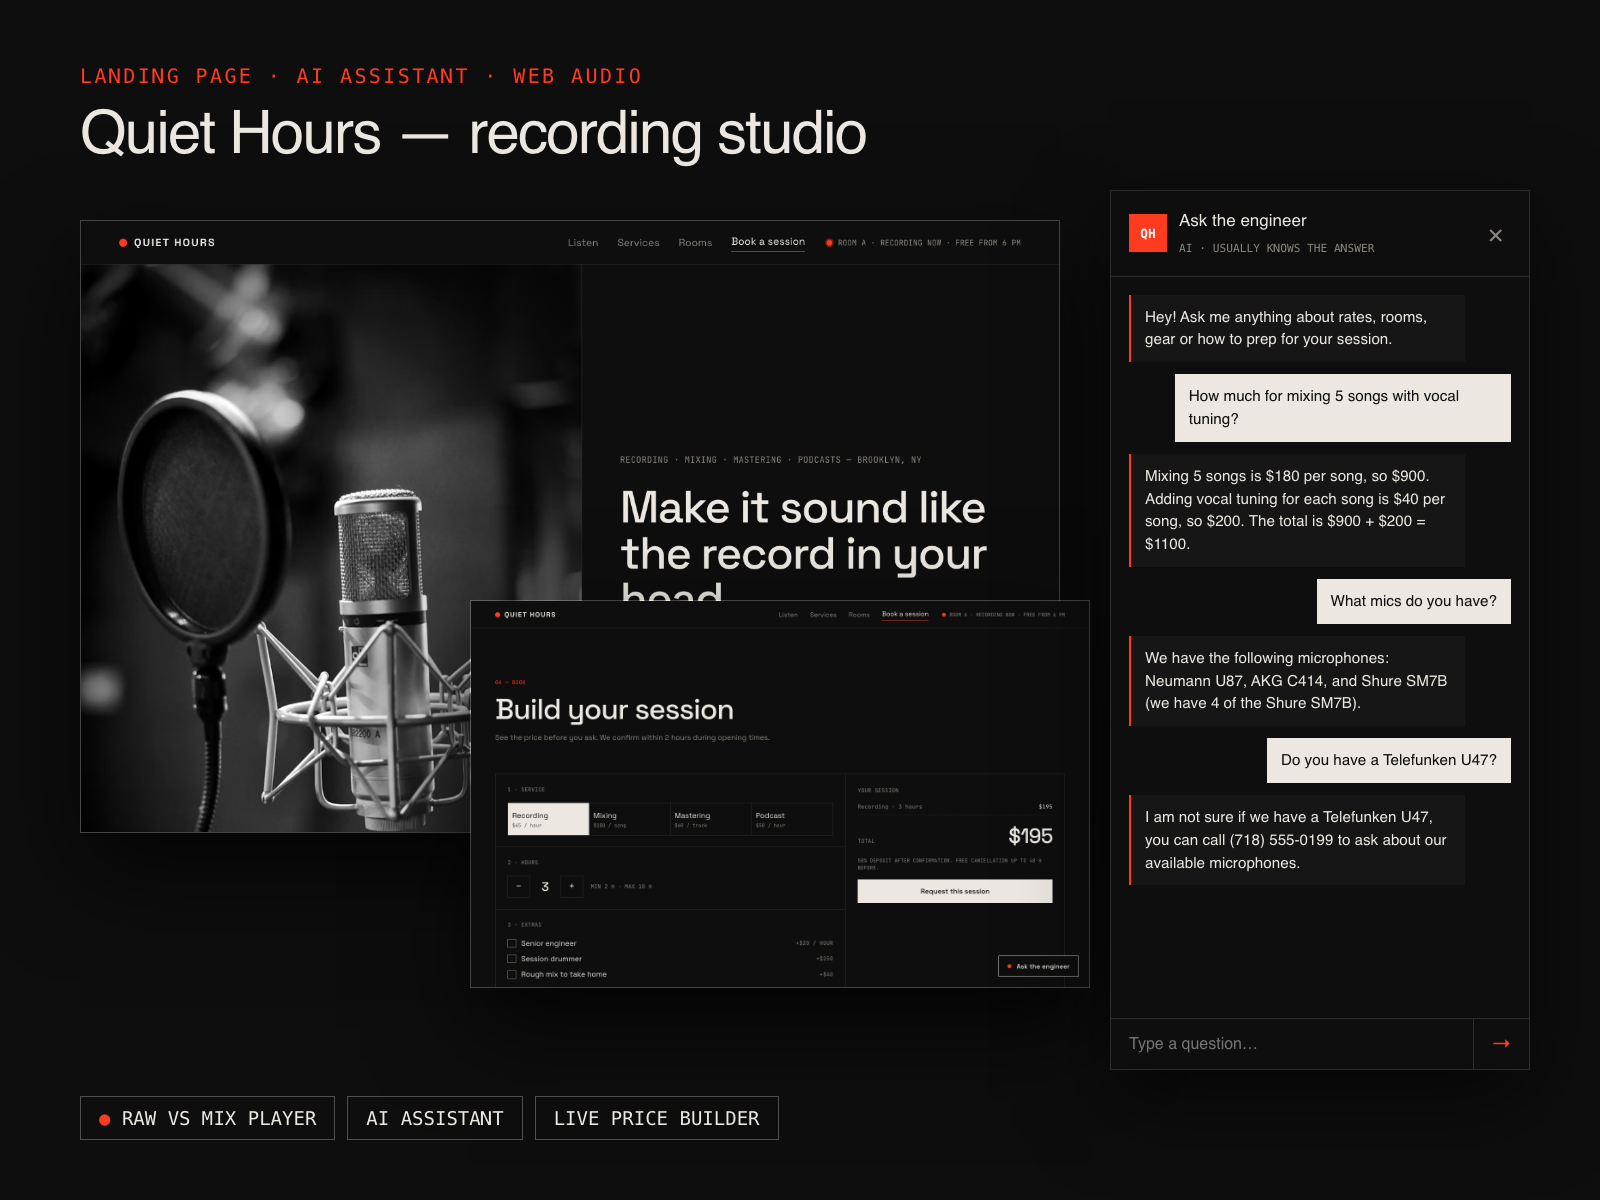
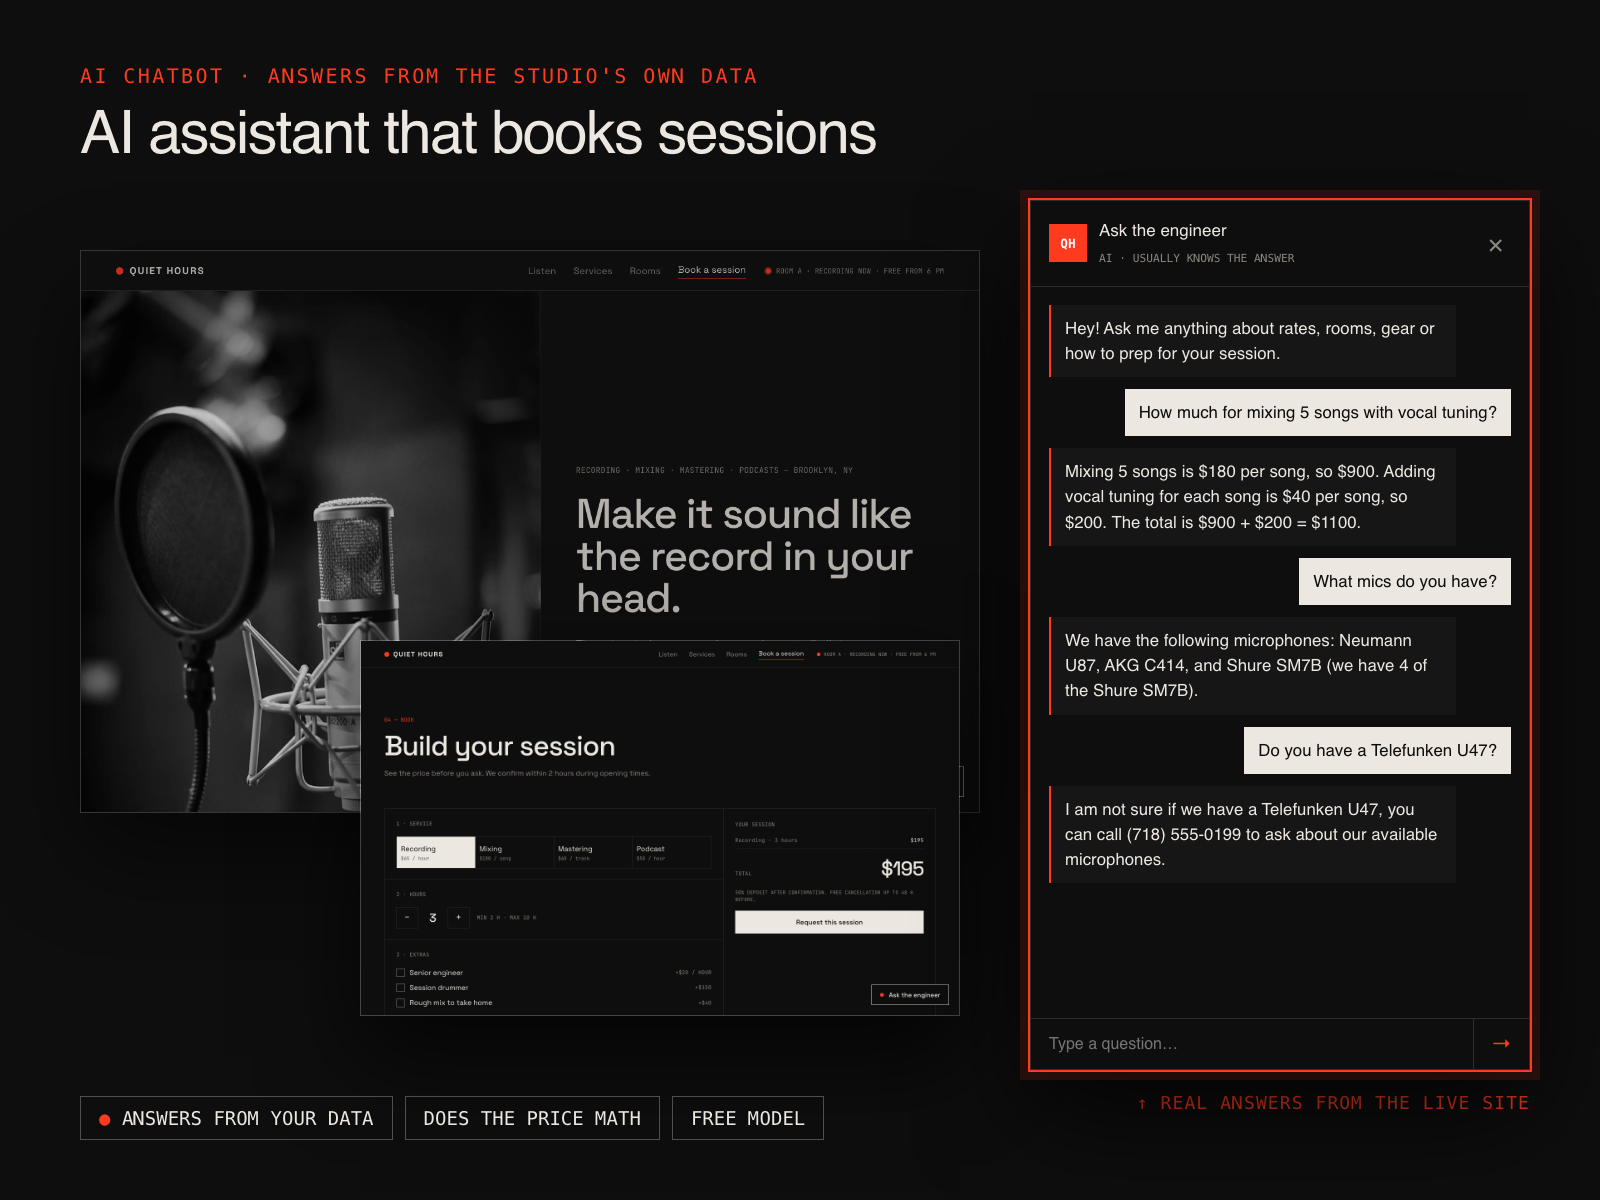
Put the AI assistant up front: hero button, teaser bubble, cover

diff --git a/chat.js b/chat.js
@@ -47,6 +47,28 @@
     }
   }
   launcher.addEventListener("click", () => open(panel.hidden));
+  // Let the page open the chat from its own buttons: <a data-open-chat>
+  window.openChat = () => open(true);
+  document.addEventListener("click", (e) => {
+    const trigger = e.target.closest("[data-open-chat]");
+    if (trigger) { e.preventDefault(); hideTeaser(); open(true); }
+  });
+
+  // Small teaser above the button a few seconds after load (once per visit).
+  const teaser = document.createElement("div");
+  teaser.className = "chat__teaser";
+  teaser.innerHTML = `<button class="chat__teaser-text" type="button">${cfg.teaser || "Questions? Ask me, I reply instantly."}</button><button class="chat__teaser-x" type="button" aria-label="Hide">×</button>`;
+  root.insertBefore(teaser, launcher);
+  function hideTeaser() {
+    teaser.classList.remove("is-on");
+    try { sessionStorage.setItem("chat.teaser", "1"); } catch { /* storage blocked */ }
+  }
+  teaser.querySelector(".chat__teaser-text").addEventListener("click", () => { hideTeaser(); open(true); });
+  teaser.querySelector(".chat__teaser-x").addEventListener("click", hideTeaser);
+  let seen = false;
+  try { seen = sessionStorage.getItem("chat.teaser") === "1"; } catch { /* ignore */ }
+  if (!seen) setTimeout(() => { if (panel.hidden) teaser.classList.add("is-on"); }, cfg.teaserDelay ?? 4000);
+  launcher.addEventListener("click", hideTeaser);
   $(".chat__close").addEventListener("click", () => open(false));
   document.addEventListener("keydown", (e) => { if (e.key === "Escape" && !panel.hidden) open(false); });
 

diff --git a/index.html b/index.html
@@ -51,6 +51,11 @@
           <a class="btn" href="#book">Book a session</a>
           <a class="btn btn--line" href="#listen">Hear the difference ↓</a>
         </div>
+        <a class="ai-cta" href="#" data-open-chat>
+          <span class="ai-cta__dot"></span>
+          <span><strong>Questions? Ask our AI engineer</strong><small class="mono">Rates, gear, session prep · answers in seconds, 24/7</small></span>
+          <span class="ai-cta__arrow">→</span>
+        </a>
         <dl class="facts mono">
           <div><dt>Rooms</dt><dd>3</dd></div>
           <div><dt>Sessions</dt><dd>1,200+</dd></div>
@@ -254,6 +259,7 @@
       subtitle: "AI · usually knows the answer",
       avatar: "QH",
       greeting: "Hey! Ask me anything about rates, rooms, gear or how to prep for your session.",
+      teaser: "Not sure what you need? Ask me about rates, gear or prep.",
       suggestions: ["How much for mixing 5 songs?", "What mics do you have?", "How do I prepare for recording vocals?", "Can we record a podcast with 3 people?"],
       fallback: "Can't answer right now. Call (718) 555-0199 or use the session builder.",
       cta: { text: "Build your session →", href: "#book", match: "book|session|builder" }

diff --git a/chat.css b/chat.css
@@ -43,6 +43,19 @@
 .chat__send:hover { background: var(--rec); color: #fff; }
 .chat__note { font: .66rem var(--mono); text-transform: uppercase; color: var(--dim); padding: 8px 18px 12px; }
 
+/* Teaser bubble */
+.chat__teaser {
+  position: absolute; right: 0; bottom: calc(100% + 12px); width: max-content; max-width: 280px;
+  display: flex; align-items: flex-start; background: var(--fg); color: var(--bg);
+  opacity: 0; transform: translateY(8px); pointer-events: none; transition: opacity .3s, transform .3s;
+}
+.chat__teaser.is-on { opacity: 1; transform: none; pointer-events: auto; }
+.chat__teaser::after { content: ""; position: absolute; right: 22px; top: 100%; border: 8px solid transparent; border-top-color: var(--fg); }
+.chat__teaser-text { border: 0; background: none; color: inherit; text-align: left; padding: 12px 4px 12px 14px; font: 500 .92rem/1.35 var(--sans); }
+.chat__teaser-x { border: 0; background: none; color: inherit; opacity: .5; font-size: 1.2rem; padding: 6px 10px; }
+.chat__teaser-x:hover { opacity: 1; }
+.chat.is-open .chat__teaser { display: none; }
+
 @media (max-width: 640px) {
   .chat { right: 16px; bottom: 16px; }
   .chat__label { font-size: .85rem; }

diff --git a/styles.css b/styles.css
@@ -72,6 +72,15 @@ h3 { font-size: 1.5rem; letter-spacing: -0.02em; }
 .hero__text .mono { color: var(--dim); }
 .lead { font-size: 1.15rem; color: var(--dim); max-width: 480px; }
 .actions { display: flex; flex-wrap: wrap; gap: 12px; }
+.ai-cta {
+  display: flex; align-items: center; gap: 14px; max-width: 520px; padding: 14px 18px; text-decoration: none;
+  border: 1px solid rgba(255, 59, 31, .55); background: rgba(255, 59, 31, .08); transition: background .2s, border-color .2s;
+}
+.ai-cta:hover { background: rgba(255, 59, 31, .16); border-color: var(--rec); }
+.ai-cta strong { display: block; font-weight: 500; }
+.ai-cta small { color: var(--dim); text-transform: none; font-size: .75rem; }
+.ai-cta__dot { width: 10px; height: 10px; border-radius: 50%; background: var(--rec); flex: none; animation: rec 1.6s infinite; }
+.ai-cta__arrow { margin-left: auto; color: var(--rec); font-size: 1.3rem; }
 .facts { display: grid; grid-template-columns: repeat(3, 1fr); border-top: 1px solid var(--line); padding-top: 20px; max-width: 520px; }
 .facts dt { color: var(--dim); }
 .facts dd { font: 500 1.8rem var(--sans); letter-spacing: -0.02em; text-transform: none; margin-top: 4px; }

diff --git a/README.md b/README.md
@@ -1,6 +1,6 @@
-# Quiet Hours — Recording Studio Website with AI Assistant
+# Quiet Hours — Recording Studio Website with an AI Chatbot
 
-A minimal, dark landing page for a (fictional) Brooklyn recording studio, built to turn visitors into booked sessions.
+A minimal, dark landing page for a (fictional) Brooklyn recording studio with a built-in **AI assistant** that answers visitors' questions from the studio's own data and guides them to book.
 
 **Live demo:** https://woaquw.github.io/quiet-hours-studio/
 
@@ -8,8 +8,8 @@ A minimal, dark landing page for a (fictional) Brooklyn recording studio, built 
 
 ## What makes it stand out
 
+- **AI chatbot "Ask the engineer".** Opens from the hero button or the floating button (with a teaser bubble). Answers questions about rates, rooms, gear and session prep from the studio's own facts, does price math ("5 songs with vocal tuning" → $1,100) and points people to the booking section. Runs on a free open-source model (Llama 3.3 on Cloudflare Workers AI). Worker code: [ai-site-assistant](https://github.com/woaquw/ai-site-assistant).
 - **"Raw vs Our mix" player.** A short track is synthesized live with the Web Audio API and played through two processing chains at once: an unmixed one (muddy, unbalanced, mono) and a mixed one (EQ, balance, stereo width, reverb, bus compression, limiter). One click (or the `M` key) flips between them instantly, in sync, with a live spectrum visualizer. No audio files, no licensing issues.
-- **AI assistant "Ask the engineer".** Answers questions about rates, rooms, gear and session prep from the studio's own facts, does price math ("5 songs with vocal tuning" → $1,100) and points people to the booking section. Runs on a free open-source model (Llama 3.3 on Cloudflare Workers AI). Worker code: [ai-site-assistant](https://github.com/woaquw/ai-site-assistant).
 - **Session builder.** Pick a service, hours or songs, extras (senior engineer, vocal tuning, rush delivery…), a day and a free start time; the price updates live, then the request is sent with a full summary.
 - **Live room status** in the header ("Room A · recording now · free from 6 pm"), calculated in studio time (New York).
 
